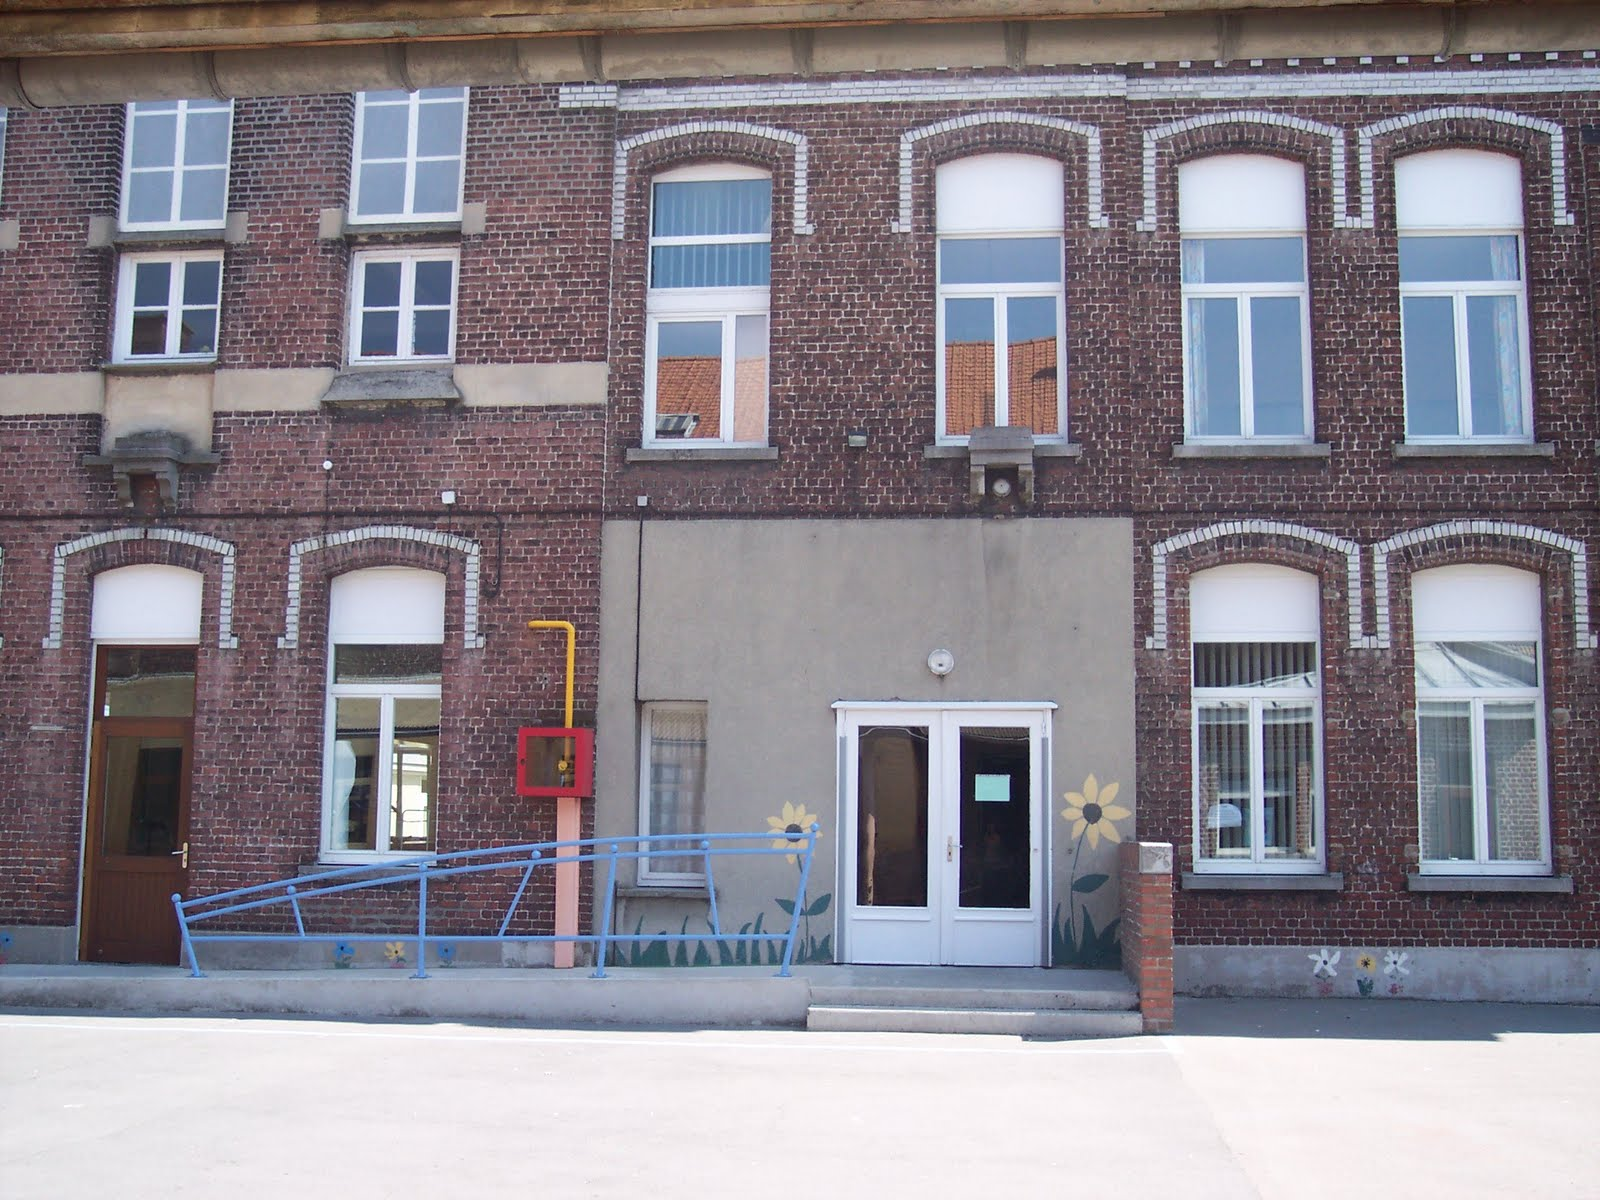
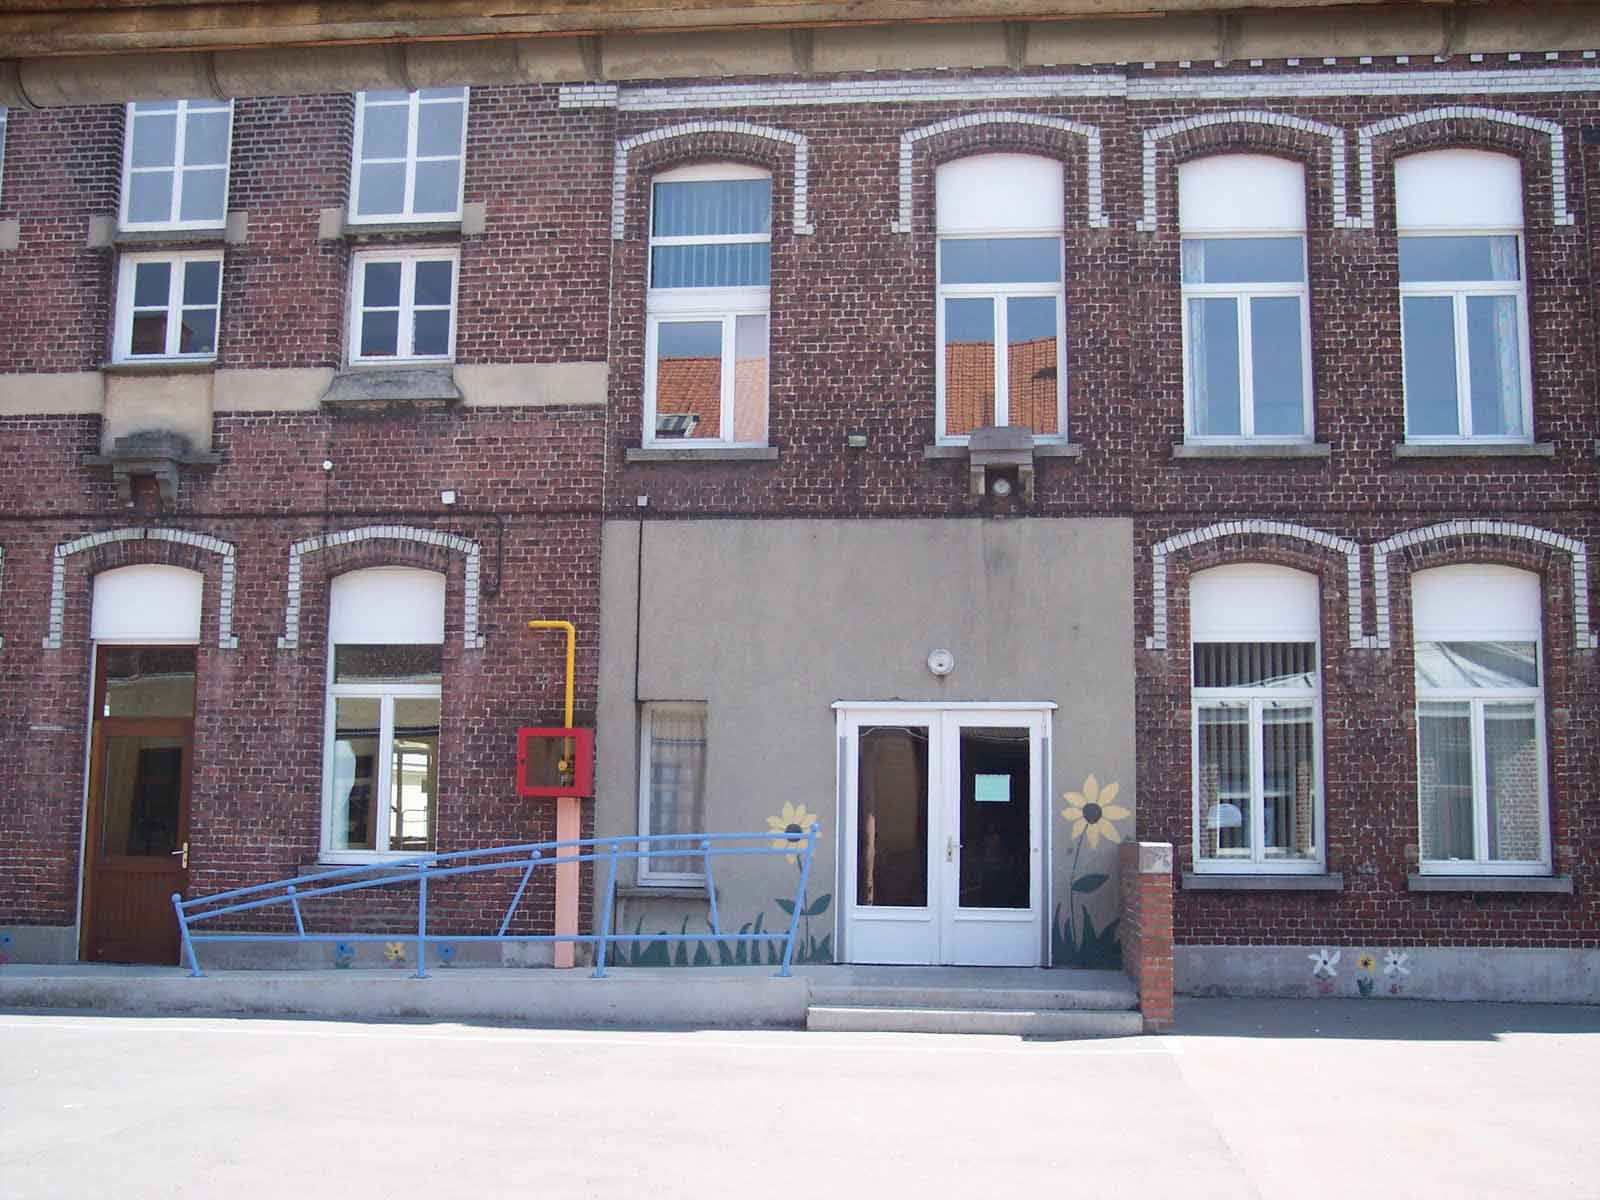
Allegement poids photos

diff --git a/photos.html b/photos.html
@@ -224,19 +224,6 @@
                         </div>
                     </div>
                     <div class="img-box">
-                        <img src="./image/visite/ecole2 2008.JPG" alt="photos école Saint-Raphaël" />
-                        <div class="transparent-box">
-                            <div class="caption">
-                                <p>
-                                    École
-                                </p>
-                                <p class="opacity-low">
-                                    Saint-Raphaël
-                                </p>
-                            </div>
-                        </div>
-                    </div>
-                    <div class="img-box">
                         <img src="./image/visite/ecole3 2008.JPG" alt="photos école Saint-Raphaël" />
                         <div class="transparent-box">
                             <div class="caption">
